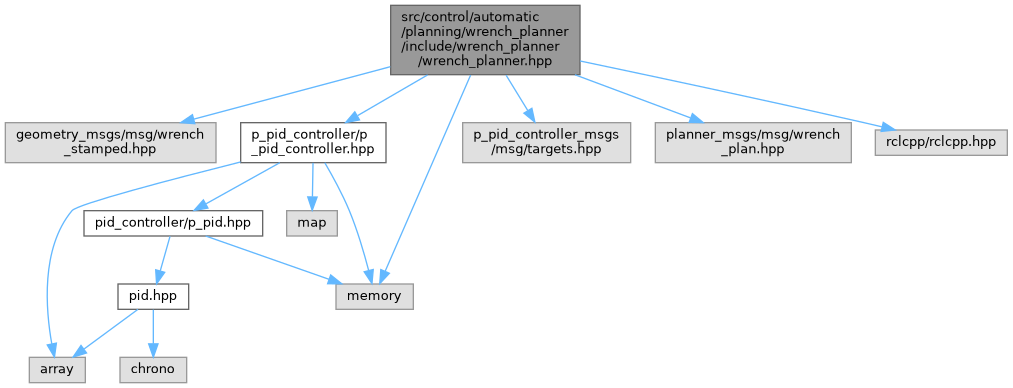
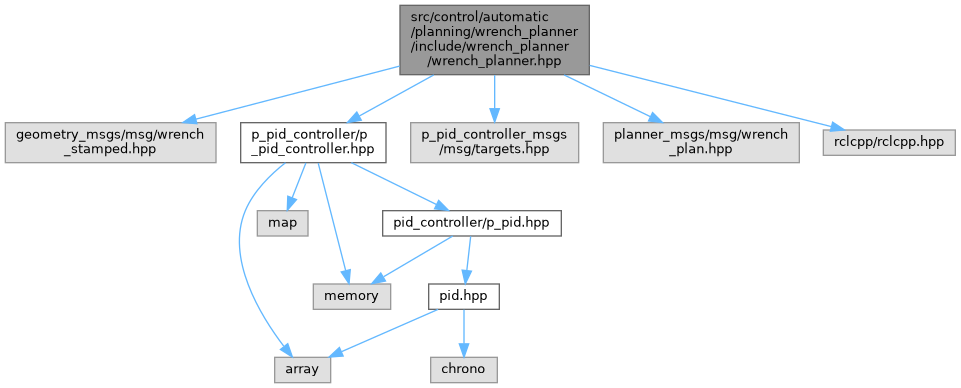
Deploying to gh-pages from @ KyutechUnderWater/kyubic_ros@31a7cc2d5868a8c5ca9f95462d0d07e61166a11e 🚀

diff --git a/wrench__planner_8hpp_source.html b/wrench__planner_8hpp_source.html
@@ -82,40 +82,39 @@ $(function() {
 <div class="line"><a id="l00011" name="l00011"></a><span class="lineno">   11</span><span class="preprocessor">#define _WRENCH_PLANNER_HPP</span></div>
 <div class="line"><a id="l00012" name="l00012"></a><span class="lineno">   12</span> </div>
 <div class="line"><a id="l00013" name="l00013"></a><span class="lineno">   13</span><span class="preprocessor">#include &lt;geometry_msgs/msg/wrench_stamped.hpp&gt;</span></div>
-<div class="line"><a id="l00014" name="l00014"></a><span class="lineno">   14</span><span class="preprocessor">#include &lt;memory&gt;</span></div>
-<div class="line"><a id="l00015" name="l00015"></a><span class="lineno">   15</span><span class="preprocessor">#include &lt;<a class="code" href="p__pid__controller_8hpp.html">p_pid_controller/p_pid_controller.hpp</a>&gt;</span></div>
-<div class="line"><a id="l00016" name="l00016"></a><span class="lineno">   16</span><span class="preprocessor">#include &lt;p_pid_controller_msgs/msg/targets.hpp&gt;</span></div>
-<div class="line"><a id="l00017" name="l00017"></a><span class="lineno">   17</span><span class="preprocessor">#include &lt;planner_msgs/msg/wrench_plan.hpp&gt;</span></div>
-<div class="line"><a id="l00018" name="l00018"></a><span class="lineno">   18</span><span class="preprocessor">#include &lt;rclcpp/rclcpp.hpp&gt;</span></div>
-<div class="line"><a id="l00019" name="l00019"></a><span class="lineno">   19</span> </div>
-<div class="line"><a id="l00020" name="l00020"></a><span class="lineno">   20</span><span class="keyword">namespace </span><a class="code hl_namespace" href="namespaceplanner.html">planner</a></div>
-<div class="line"><a id="l00021" name="l00021"></a><span class="lineno">   21</span>{</div>
-<div class="line"><a id="l00022" name="l00022"></a><span class="lineno">   22</span> </div>
-<div class="line"><a id="l00023" name="l00023"></a><span class="lineno"><a class="line" href="classplanner_1_1WrenchPlanner.html">   23</a></span><span class="keyword">class </span><a class="code hl_class" href="classplanner_1_1WrenchPlanner.html">WrenchPlanner</a> : <span class="keyword">public</span> rclcpp::Node</div>
-<div class="line"><a id="l00024" name="l00024"></a><span class="lineno">   24</span>{</div>
-<div class="line"><a id="l00025" name="l00025"></a><span class="lineno">   25</span><span class="keyword">private</span>:</div>
-<div class="line"><a id="l00026" name="l00026"></a><span class="lineno">   26</span>  rclcpp::Publisher&lt;geometry_msgs::msg::WrenchStamped&gt;::SharedPtr pub_;</div>
-<div class="line"><a id="l00027" name="l00027"></a><span class="lineno">   27</span>  rclcpp::Publisher&lt;p_pid_controller_msgs::msg::Targets&gt;::SharedPtr pub_target_;</div>
-<div class="line"><a id="l00028" name="l00028"></a><span class="lineno">   28</span>  rclcpp::Subscription&lt;planner_msgs::msg::WrenchPlan&gt;::SharedPtr sub_;</div>
-<div class="line"><a id="l00029" name="l00029"></a><span class="lineno">   29</span> </div>
-<div class="line"><a id="l00030" name="l00030"></a><span class="lineno">   30</span>  std::shared_ptr&lt;planner_msgs::msg::WrenchPlan&gt; goal_current_odom_;</div>
-<div class="line"><a id="l00031" name="l00031"></a><span class="lineno">   31</span> </div>
-<div class="line"><a id="l00032" name="l00032"></a><span class="lineno">   32</span>  std::shared_ptr&lt;controller::P_PIDController&gt; p_pid_ctrl_;</div>
-<div class="line"><a id="l00033" name="l00033"></a><span class="lineno">   33</span> </div>
-<div class="line"><a id="l00034" name="l00034"></a><span class="lineno">   34</span>  uint8_t pre_z_mode = 0;</div>
-<div class="line"><a id="l00035" name="l00035"></a><span class="lineno">   35</span> </div>
-<div class="line"><a id="l00036" name="l00036"></a><span class="lineno">   36</span>  <span class="keywordtype">void</span> _update_wrench();</div>
-<div class="line"><a id="l00037" name="l00037"></a><span class="lineno">   37</span> </div>
-<div class="line"><a id="l00038" name="l00038"></a><span class="lineno">   38</span>  <span class="keywordtype">void</span> goalCurrentOdomCallback(<span class="keyword">const</span> planner_msgs::msg::WrenchPlan::SharedPtr msg);</div>
-<div class="line"><a id="l00039" name="l00039"></a><span class="lineno">   39</span> </div>
-<div class="line"><a id="l00040" name="l00040"></a><span class="lineno">   40</span><span class="keyword">public</span>:</div>
-<div class="line"><a id="l00041" name="l00041"></a><span class="lineno">   41</span>  <span class="keyword">explicit</span> <a class="code hl_class" href="classplanner_1_1WrenchPlanner.html">WrenchPlanner</a>(<span class="keyword">const</span> rclcpp::NodeOptions &amp; options);</div>
-<div class="line"><a id="l00042" name="l00042"></a><span class="lineno">   42</span>};</div>
-<div class="line"><a id="l00043" name="l00043"></a><span class="lineno">   43</span> </div>
-<div class="line"><a id="l00044" name="l00044"></a><span class="lineno">   44</span>}  <span class="comment">// namespace planner</span></div>
-<div class="line"><a id="l00045" name="l00045"></a><span class="lineno">   45</span> </div>
-<div class="line"><a id="l00046" name="l00046"></a><span class="lineno">   46</span><span class="preprocessor">#endif</span></div>
-<div class="ttc" id="aclassplanner_1_1WrenchPlanner_html"><div class="ttname"><a href="classplanner_1_1WrenchPlanner.html">planner::WrenchPlanner</a></div><div class="ttdef"><b>Definition:</b> wrench_planner.hpp:24</div></div>
+<div class="line"><a id="l00014" name="l00014"></a><span class="lineno">   14</span><span class="preprocessor">#include &lt;<a class="code" href="p__pid__controller_8hpp.html">p_pid_controller/p_pid_controller.hpp</a>&gt;</span></div>
+<div class="line"><a id="l00015" name="l00015"></a><span class="lineno">   15</span><span class="preprocessor">#include &lt;p_pid_controller_msgs/msg/targets.hpp&gt;</span></div>
+<div class="line"><a id="l00016" name="l00016"></a><span class="lineno">   16</span><span class="preprocessor">#include &lt;planner_msgs/msg/wrench_plan.hpp&gt;</span></div>
+<div class="line"><a id="l00017" name="l00017"></a><span class="lineno">   17</span><span class="preprocessor">#include &lt;rclcpp/rclcpp.hpp&gt;</span></div>
+<div class="line"><a id="l00018" name="l00018"></a><span class="lineno">   18</span> </div>
+<div class="line"><a id="l00019" name="l00019"></a><span class="lineno">   19</span><span class="keyword">namespace </span><a class="code hl_namespace" href="namespaceplanner.html">planner</a></div>
+<div class="line"><a id="l00020" name="l00020"></a><span class="lineno">   20</span>{</div>
+<div class="line"><a id="l00021" name="l00021"></a><span class="lineno">   21</span> </div>
+<div class="line"><a id="l00022" name="l00022"></a><span class="lineno"><a class="line" href="classplanner_1_1WrenchPlanner.html">   22</a></span><span class="keyword">class </span><a class="code hl_class" href="classplanner_1_1WrenchPlanner.html">WrenchPlanner</a> : <span class="keyword">public</span> rclcpp::Node</div>
+<div class="line"><a id="l00023" name="l00023"></a><span class="lineno">   23</span>{</div>
+<div class="line"><a id="l00024" name="l00024"></a><span class="lineno">   24</span><span class="keyword">private</span>:</div>
+<div class="line"><a id="l00025" name="l00025"></a><span class="lineno">   25</span>  rclcpp::Publisher&lt;geometry_msgs::msg::WrenchStamped&gt;::SharedPtr pub_;</div>
+<div class="line"><a id="l00026" name="l00026"></a><span class="lineno">   26</span>  rclcpp::Publisher&lt;p_pid_controller_msgs::msg::Targets&gt;::SharedPtr pub_target_;</div>
+<div class="line"><a id="l00027" name="l00027"></a><span class="lineno">   27</span>  rclcpp::Subscription&lt;planner_msgs::msg::WrenchPlan&gt;::SharedPtr sub_;</div>
+<div class="line"><a id="l00028" name="l00028"></a><span class="lineno">   28</span> </div>
+<div class="line"><a id="l00029" name="l00029"></a><span class="lineno">   29</span>  std::shared_ptr&lt;planner_msgs::msg::WrenchPlan&gt; goal_current_odom_;</div>
+<div class="line"><a id="l00030" name="l00030"></a><span class="lineno">   30</span> </div>
+<div class="line"><a id="l00031" name="l00031"></a><span class="lineno">   31</span>  std::shared_ptr&lt;controller::P_PIDController&gt; p_pid_ctrl_;</div>
+<div class="line"><a id="l00032" name="l00032"></a><span class="lineno">   32</span> </div>
+<div class="line"><a id="l00033" name="l00033"></a><span class="lineno">   33</span>  uint8_t pre_z_mode = 0;</div>
+<div class="line"><a id="l00034" name="l00034"></a><span class="lineno">   34</span> </div>
+<div class="line"><a id="l00035" name="l00035"></a><span class="lineno">   35</span>  <span class="keywordtype">void</span> _update_wrench();</div>
+<div class="line"><a id="l00036" name="l00036"></a><span class="lineno">   36</span> </div>
+<div class="line"><a id="l00037" name="l00037"></a><span class="lineno">   37</span>  <span class="keywordtype">void</span> goalCurrentOdomCallback(<span class="keyword">const</span> planner_msgs::msg::WrenchPlan::SharedPtr msg);</div>
+<div class="line"><a id="l00038" name="l00038"></a><span class="lineno">   38</span> </div>
+<div class="line"><a id="l00039" name="l00039"></a><span class="lineno">   39</span><span class="keyword">public</span>:</div>
+<div class="line"><a id="l00040" name="l00040"></a><span class="lineno">   40</span>  <span class="keyword">explicit</span> <a class="code hl_class" href="classplanner_1_1WrenchPlanner.html">WrenchPlanner</a>(<span class="keyword">const</span> rclcpp::NodeOptions &amp; options);</div>
+<div class="line"><a id="l00041" name="l00041"></a><span class="lineno">   41</span>};</div>
+<div class="line"><a id="l00042" name="l00042"></a><span class="lineno">   42</span> </div>
+<div class="line"><a id="l00043" name="l00043"></a><span class="lineno">   43</span>}  <span class="comment">// namespace planner</span></div>
+<div class="line"><a id="l00044" name="l00044"></a><span class="lineno">   44</span> </div>
+<div class="line"><a id="l00045" name="l00045"></a><span class="lineno">   45</span><span class="preprocessor">#endif</span></div>
+<div class="ttc" id="aclassplanner_1_1WrenchPlanner_html"><div class="ttname"><a href="classplanner_1_1WrenchPlanner.html">planner::WrenchPlanner</a></div><div class="ttdef"><b>Definition:</b> wrench_planner.hpp:23</div></div>
 <div class="ttc" id="anamespaceplanner_html"><div class="ttname"><a href="namespaceplanner.html">planner</a></div><div class="ttdef"><b>Definition:</b> path_csv_loader.hpp:22</div></div>
 <div class="ttc" id="ap__pid__controller_8hpp_html"><div class="ttname"><a href="p__pid__controller_8hpp.html">p_pid_controller.hpp</a></div><div class="ttdoc">P-PID Contorller for kyubic.</div></div>
 </div><!-- fragment --></div><!-- contents -->

diff --git a/pdla__planner_8cpp.html b/pdla__planner_8cpp.html
@@ -81,38 +81,28 @@ $(function() {
 <div class="contents">
 <div class="textblock"><code>#include &quot;<a class="el" href="pdla__planner_8hpp_source.html">projection_dynamic_look_ahead_planner/pdla_planner.hpp</a>&quot;</code><br />
 <code>#include &lt;Eigen/Dense&gt;</code><br />
-<code>#include &lt;cstddef&gt;</code><br />
-<code>#include &lt;functional&gt;</code><br />
-<code>#include &lt;memory&gt;</code><br />
-<code>#include &lt;rclcpp/logging.hpp&gt;</code><br />
-<code>#include &lt;rclcpp/qos.hpp&gt;</code><br />
-<code>#include &lt;rclcpp/utilities.hpp&gt;</code><br />
 <code>#include &quot;rclcpp_components/register_node_macro.hpp&quot;</code><br />
 </div><div class="textblock"><div class="dynheader">
 Include dependency graph for pdla_planner.cpp:</div>
 <div class="dyncontent">
 <div class="center"><img src="pdla__planner_8cpp__incl.png" border="0" usemap="#asrc_2control_2automatic_2planning_2projection__dynamic__look__ahead__planner_2src_2pdla__planner_8cpp" alt=""/></div>
 <map name="asrc_2control_2automatic_2planning_2projection__dynamic__look__ahead__planner_2src_2pdla__planner_8cpp" id="asrc_2control_2automatic_2planning_2projection__dynamic__look__ahead__planner_2src_2pdla__planner_8cpp">
-<area shape="rect" title=" " alt="" coords="1020,5,1242,75"/>
-<area shape="rect" href="pdla__planner_8hpp.html" title=" " alt="" coords="447,123,607,177"/>
-<area shape="rect" title=" " alt="" coords="32,313,102,339"/>
-<area shape="rect" title=" " alt="" coords="771,313,848,339"/>
-<area shape="rect" title=" " alt="" coords="961,137,1064,163"/>
-<area shape="rect" title=" " alt="" coords="1088,137,1174,163"/>
-<area shape="rect" title=" " alt="" coords="1199,137,1340,163"/>
-<area shape="rect" title=" " alt="" coords="1365,137,1481,163"/>
-<area shape="rect" title=" " alt="" coords="1505,137,1648,163"/>
-<area shape="rect" title=" " alt="" coords="1672,130,1875,170"/>
-<area shape="rect" title=" " alt="" coords="24,233,120,258"/>
-<area shape="rect" title=" " alt="" coords="144,225,315,265"/>
-<area shape="rect" href="path__csv__loader_8hpp.html" title=" " alt="" coords="340,225,509,265"/>
-<area shape="rect" title=" " alt="" coords="533,225,729,265"/>
-<area shape="rect" title=" " alt="" coords="753,233,885,258"/>
-<area shape="rect" title=" " alt="" coords="206,313,262,339"/>
-<area shape="rect" title=" " alt="" coords="286,313,360,339"/>
-<area shape="rect" title=" " alt="" coords="384,313,464,339"/>
-<area shape="rect" title=" " alt="" coords="488,313,547,339"/>
-<area shape="rect" title=" " alt="" coords="572,313,634,339"/>
+<area shape="rect" title=" " alt="" coords="450,5,673,75"/>
+<area shape="rect" href="pdla__planner_8hpp.html" title=" " alt="" coords="325,123,485,177"/>
+<area shape="rect" title=" " alt="" coords="510,137,613,163"/>
+<area shape="rect" title=" " alt="" coords="637,130,840,170"/>
+<area shape="rect" title=" " alt="" coords="5,233,101,258"/>
+<area shape="rect" title=" " alt="" coords="125,225,296,265"/>
+<area shape="rect" href="path__csv__loader_8hpp.html" title=" " alt="" coords="321,225,490,265"/>
+<area shape="rect" title=" " alt="" coords="514,225,710,265"/>
+<area shape="rect" title=" " alt="" coords="734,233,866,258"/>
+<area shape="rect" title=" " alt="" coords="91,313,147,339"/>
+<area shape="rect" title=" " alt="" coords="171,313,242,339"/>
+<area shape="rect" title=" " alt="" coords="267,313,341,339"/>
+<area shape="rect" title=" " alt="" coords="365,313,445,339"/>
+<area shape="rect" title=" " alt="" coords="469,313,547,339"/>
+<area shape="rect" title=" " alt="" coords="571,313,629,339"/>
+<area shape="rect" title=" " alt="" coords="654,313,717,339"/>
 </map>
 </div>
 </div><table class="memberdecls">

diff --git a/wrench__planner_8hpp.html b/wrench__planner_8hpp.html
@@ -84,7 +84,6 @@ $(function() {
 <p>plan force and torque from path  
 <a href="#details">More...</a></p>
 <div class="textblock"><code>#include &lt;geometry_msgs/msg/wrench_stamped.hpp&gt;</code><br />
-<code>#include &lt;memory&gt;</code><br />
 <code>#include &lt;<a class="el" href="p__pid__controller_8hpp_source.html">p_pid_controller/p_pid_controller.hpp</a>&gt;</code><br />
 <code>#include &lt;p_pid_controller_msgs/msg/targets.hpp&gt;</code><br />
 <code>#include &lt;planner_msgs/msg/wrench_plan.hpp&gt;</code><br />
@@ -94,18 +93,18 @@ Include dependency graph for wrench_planner.hpp:</div>
 <div class="dyncontent">
 <div class="center"><img src="wrench__planner_8hpp__incl.png" border="0" usemap="#asrc_2control_2automatic_2planning_2wrench__planner_2include_2wrench__planner_2wrench__planner_8hpp" alt=""/></div>
 <map name="asrc_2control_2automatic_2planning_2wrench__planner_2include_2wrench__planner_2wrench__planner_8hpp" id="asrc_2control_2automatic_2planning_2wrench__planner_2include_2wrench__planner_2wrench__planner_8hpp">
-<area shape="rect" title="plan force and torque from path" alt="" coords="391,5,580,75"/>
+<area shape="rect" title="plan force and torque from path" alt="" coords="400,5,589,75"/>
 <area shape="rect" title=" " alt="" coords="5,123,216,163"/>
-<area shape="rect" title=" " alt="" coords="336,284,413,309"/>
 <area shape="rect" href="p__pid__controller_8hpp.html" title="P&#45;PID Contorller for kyubic." alt="" coords="241,123,386,163"/>
-<area shape="rect" title=" " alt="" coords="463,123,631,163"/>
-<area shape="rect" title=" " alt="" coords="655,123,851,163"/>
-<area shape="rect" title=" " alt="" coords="875,130,1007,155"/>
-<area shape="rect" title=" " alt="" coords="29,357,85,383"/>
-<area shape="rect" title=" " alt="" coords="287,211,337,236"/>
-<area shape="rect" href="p__pid_8hpp.html" title="P&#45;PID Controller library." alt="" coords="84,211,263,236"/>
-<area shape="rect" href="pid_8hpp.html" title="PID Controller library." alt="" coords="118,284,189,309"/>
-<area shape="rect" title=" " alt="" coords="120,357,187,383"/>
+<area shape="rect" title=" " alt="" coords="411,123,579,163"/>
+<area shape="rect" title=" " alt="" coords="603,123,799,163"/>
+<area shape="rect" title=" " alt="" coords="823,130,955,155"/>
+<area shape="rect" title=" " alt="" coords="275,357,331,383"/>
+<area shape="rect" title=" " alt="" coords="257,211,308,236"/>
+<area shape="rect" title=" " alt="" coords="313,284,391,309"/>
+<area shape="rect" href="p__pid_8hpp.html" title="P&#45;PID Controller library." alt="" coords="383,211,561,236"/>
+<area shape="rect" href="pid_8hpp.html" title="PID Controller library." alt="" coords="429,284,499,309"/>
+<area shape="rect" title=" " alt="" coords="431,357,497,383"/>
 </map>
 </div>
 </div><div class="textblock"><div class="dynheader">

diff --git a/wrench__planner_8cpp.html b/wrench__planner_8cpp.html
@@ -90,20 +90,20 @@ Include dependency graph for wrench_planner.cpp:</div>
 <div class="dyncontent">
 <div class="center"><img src="wrench__planner_8cpp__incl.png" border="0" usemap="#asrc_2control_2automatic_2planning_2wrench__planner_2src_2wrench__planner_8cpp" alt=""/></div>
 <map name="asrc_2control_2automatic_2planning_2wrench__planner_2src_2wrench__planner_8cpp" id="asrc_2control_2automatic_2planning_2wrench__planner_2src_2wrench__planner_8cpp">
-<area shape="rect" title="plan force and torque from path" alt="" coords="293,5,483,60"/>
-<area shape="rect" href="wrench__planner_8hpp.html" title="plan force and torque from path" alt="" coords="300,108,476,148"/>
-<area shape="rect" title=" " alt="" coords="264,357,341,383"/>
-<area shape="rect" title=" " alt="" coords="500,108,703,148"/>
-<area shape="rect" title=" " alt="" coords="29,196,240,236"/>
-<area shape="rect" href="p__pid__controller_8hpp.html" title="P&#45;PID Contorller for kyubic." alt="" coords="315,196,461,236"/>
-<area shape="rect" title=" " alt="" coords="485,196,653,236"/>
-<area shape="rect" title=" " alt="" coords="678,196,874,236"/>
-<area shape="rect" title=" " alt="" coords="898,203,1030,229"/>
-<area shape="rect" title=" " alt="" coords="553,431,609,456"/>
-<area shape="rect" title=" " alt="" coords="619,284,669,309"/>
-<area shape="rect" href="p__pid_8hpp.html" title="P&#45;PID Controller library." alt="" coords="365,284,544,309"/>
-<area shape="rect" href="pid_8hpp.html" title="PID Controller library." alt="" coords="619,357,690,383"/>
-<area shape="rect" title=" " alt="" coords="633,431,700,456"/>
+<area shape="rect" title="plan force and torque from path" alt="" coords="327,5,516,60"/>
+<area shape="rect" href="wrench__planner_8hpp.html" title="plan force and torque from path" alt="" coords="334,108,510,148"/>
+<area shape="rect" title=" " alt="" coords="750,357,827,383"/>
+<area shape="rect" title=" " alt="" coords="534,108,736,148"/>
+<area shape="rect" title=" " alt="" coords="607,196,818,236"/>
+<area shape="rect" href="p__pid__controller_8hpp.html" title="P&#45;PID Contorller for kyubic." alt="" coords="842,196,988,236"/>
+<area shape="rect" title=" " alt="" coords="38,196,206,236"/>
+<area shape="rect" title=" " alt="" coords="230,196,426,236"/>
+<area shape="rect" title=" " alt="" coords="450,203,582,229"/>
+<area shape="rect" title=" " alt="" coords="994,431,1050,456"/>
+<area shape="rect" title=" " alt="" coords="700,284,751,309"/>
+<area shape="rect" href="p__pid_8hpp.html" title="P&#45;PID Controller library." alt="" coords="826,284,1004,309"/>
+<area shape="rect" href="pid_8hpp.html" title="PID Controller library." alt="" coords="890,357,961,383"/>
+<area shape="rect" title=" " alt="" coords="892,431,959,456"/>
 </map>
 </div>
 </div><table class="memberdecls">
